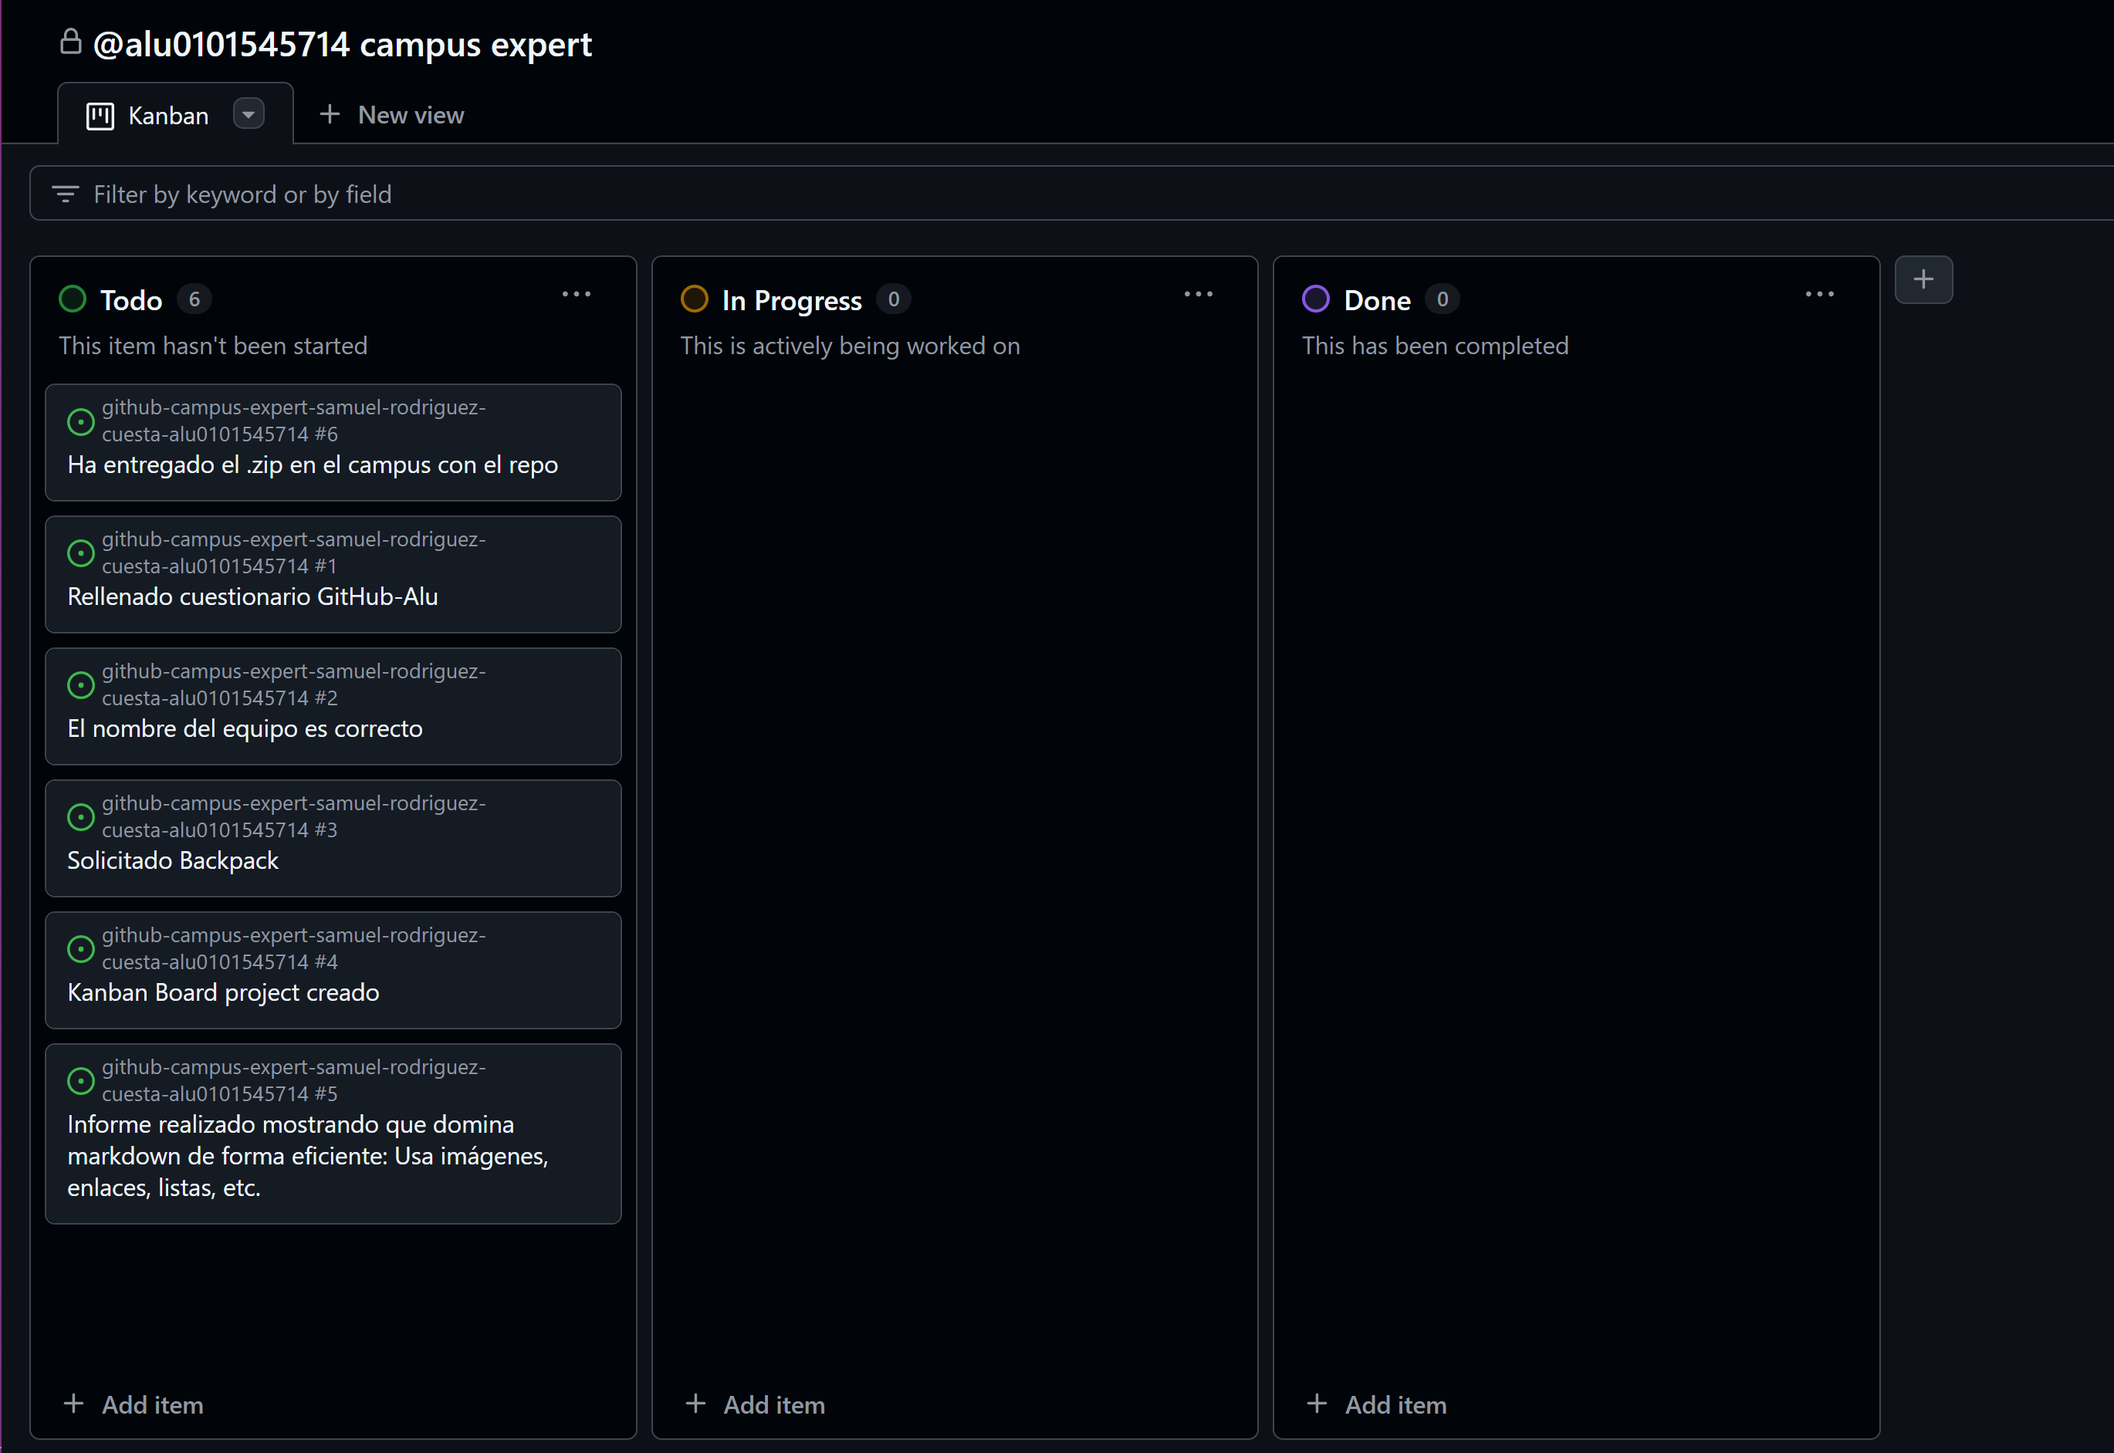
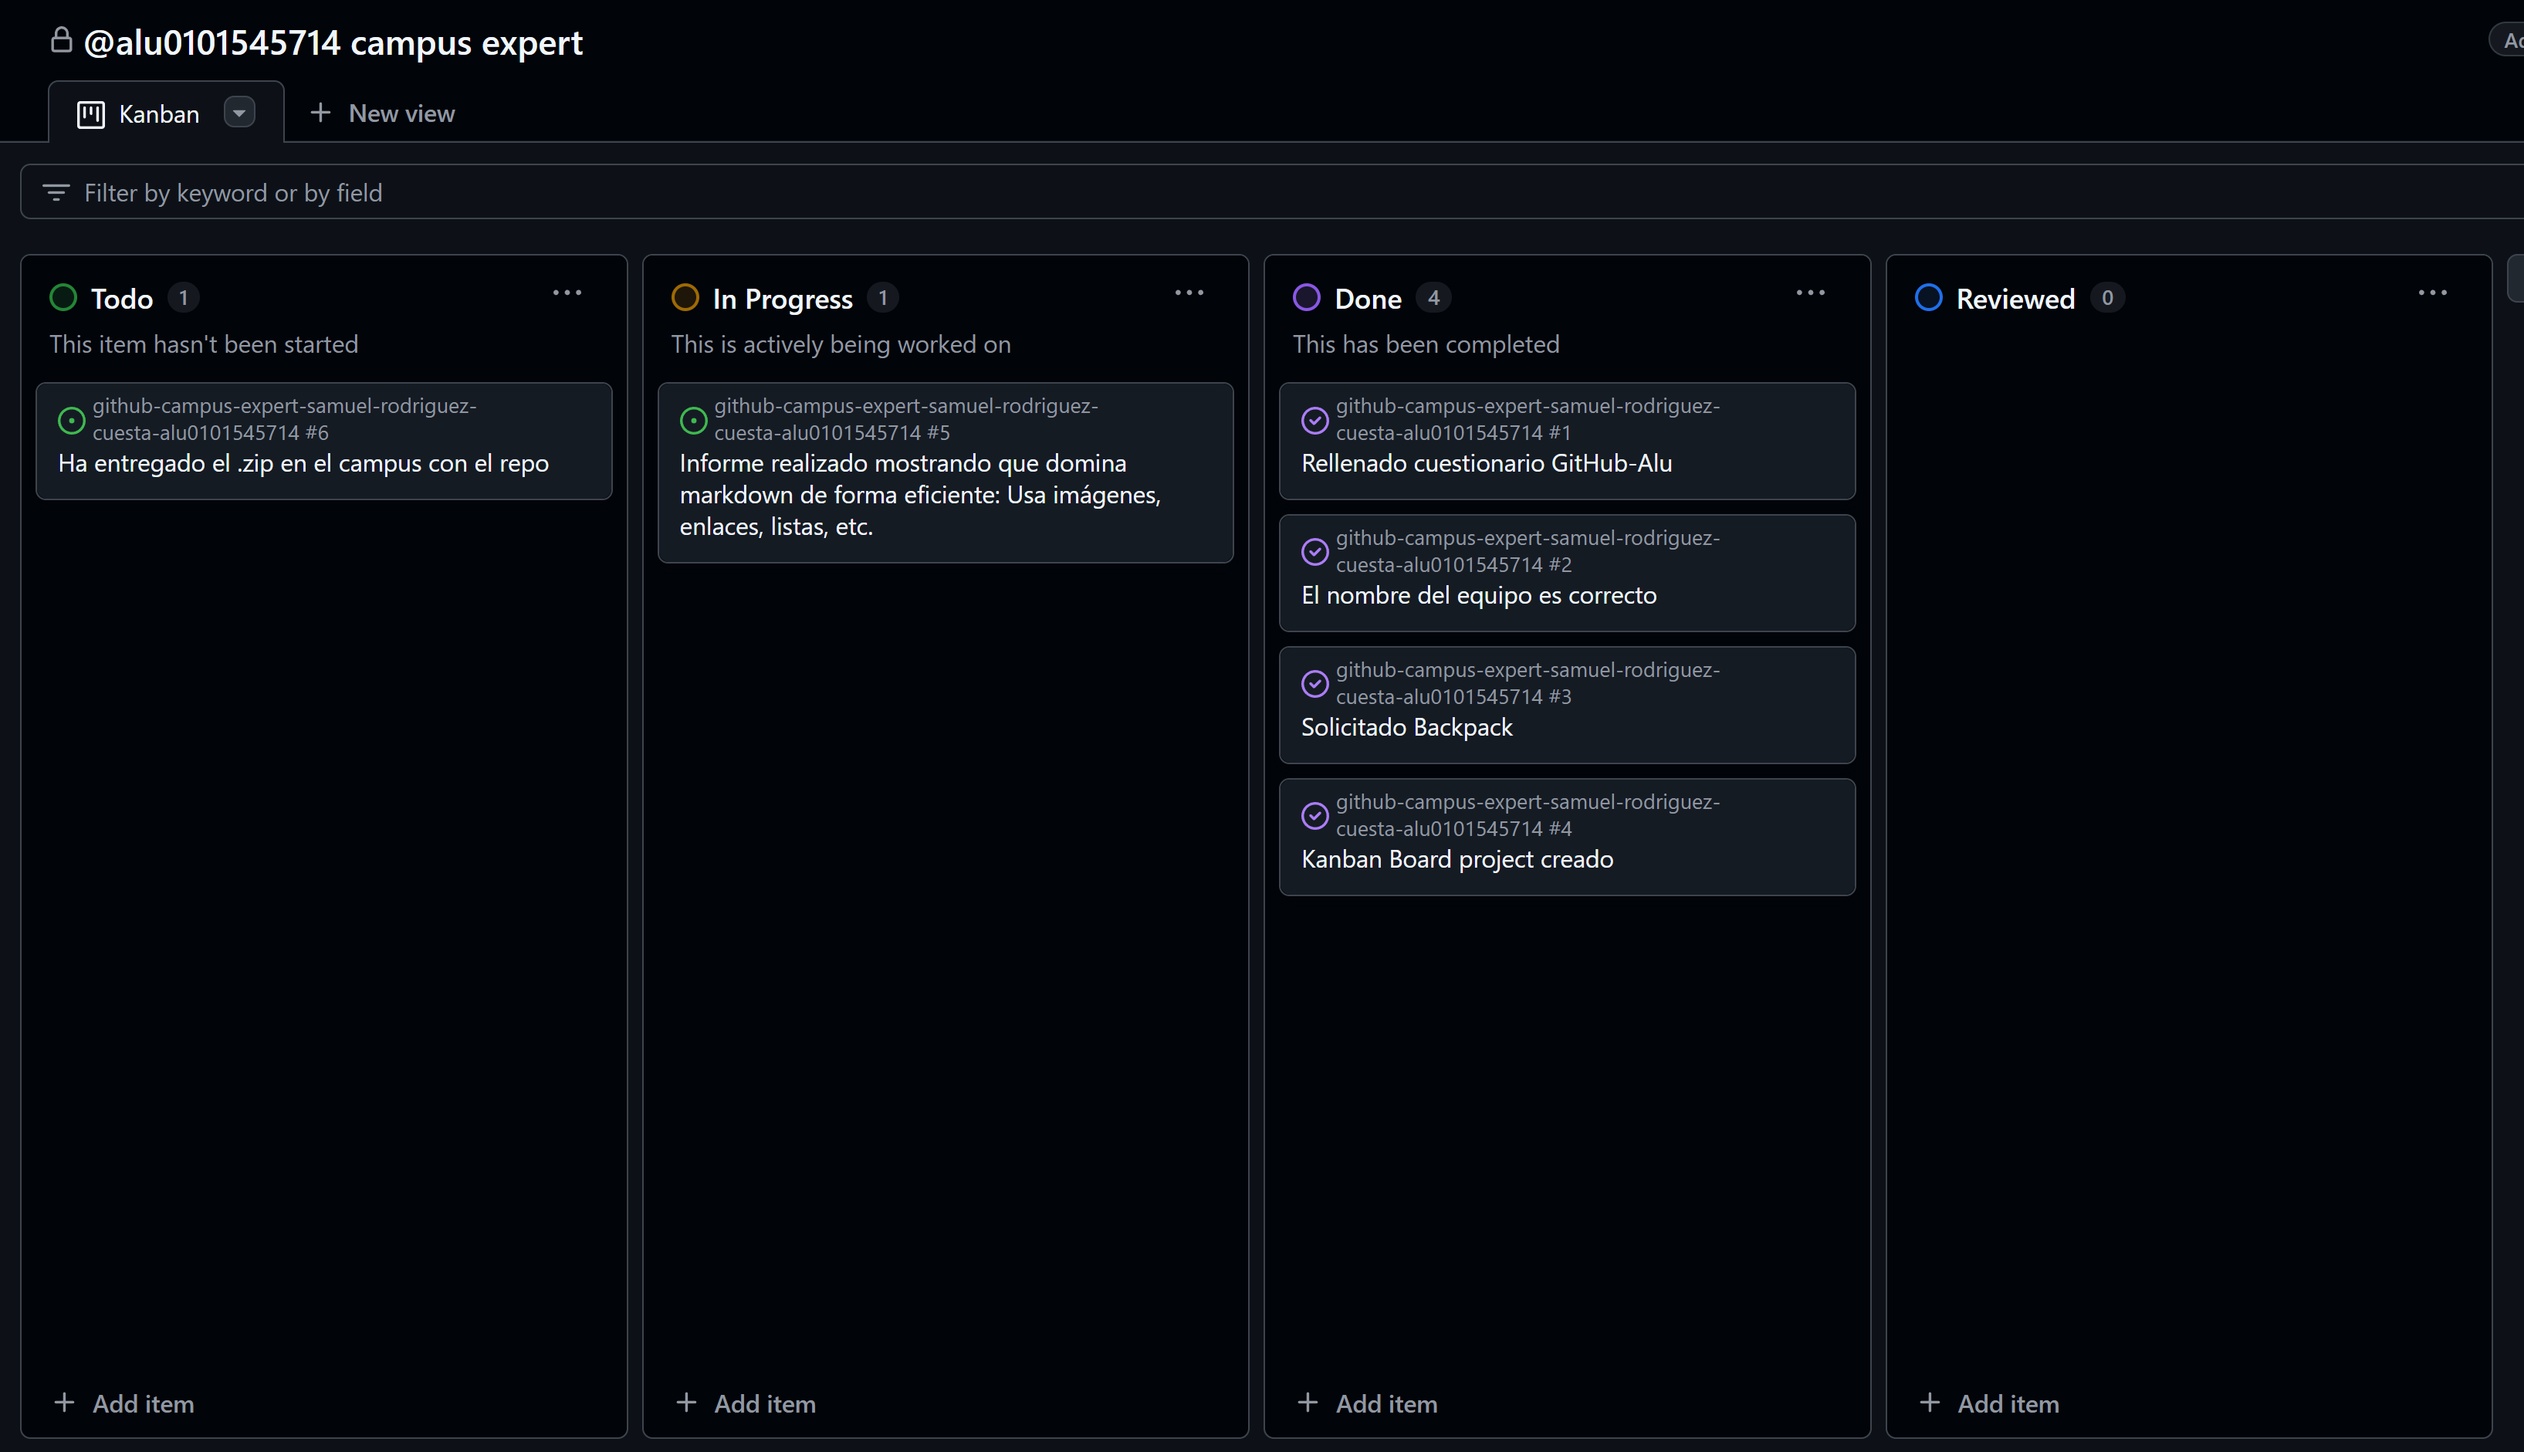
errores informe corregidos

diff --git a/README.md b/README.md
@@ -2,7 +2,7 @@
 # Github Campus Expert 
 
 - Samuel
-- Rodríguez Cuest 
+- Rodríguez Cuesta 
 - alu0101545714
 
 ## Rellenar el cuestionario GitHub-Alu del campus virtual y recibir el correo confirmándolo
